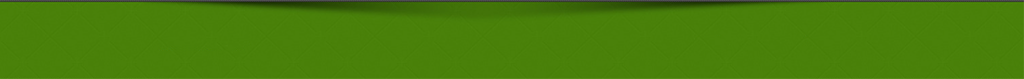
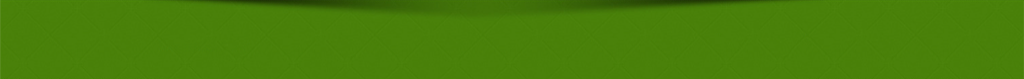
background in progress

Changed region(s): [[0.0, 0.0, 1.0, 0.1013]]

diff --git a/public/assets/css/templates/the42template/style.css b/public/assets/css/templates/the42template/style.css
@@ -10,6 +10,7 @@
 body {
 	margin: 0px;
 	background-color: #282828;
+    background-image: url("../../../img/templates/the42template/background.png");
 }
 
 html {	
@@ -21,7 +22,7 @@ html {
     padding: 0 100px;
 }
 
-#all-wrapper {
+.all-wrapper {
 	width: 1024px;
 	margin: 0 auto;
 }
@@ -53,18 +54,31 @@ html {
 	position: relative;
 }
 
+#header h1 {
+    margin: 0;
+    position: relative;
+    z-index: 3;
+    top: 15px;
+    left: 25px;
+    float: left;
+    width: 150px;
+    height: 80px;
+}
+
+#header .all-wrapper {
+    position: relative;
+    z-index: 1;
+}
+
 #header h1 .logo {
 	display: block;
 	width: 113px;
 	height: 113px;
-	position: absolute;
 	background-image: url('../../../img/templates/the42template/logo.png');
 	background-repeat: no-repeat;
 	text-indent: -99999px;
 	padding: 0;
 	margin: 0;
-	top: 15px;
-	left: 25px;
 }
 
 /* Menu */
@@ -73,7 +87,9 @@ html {
 	margin: 0;
 	padding: 0;
 	list-style: none;
-	margin-left: 170px;
+	margin-right: 80px;
+    position: relative;
+    float:right;
 }
 
 #header ul.menu li {
@@ -86,7 +102,7 @@ html {
 	text-decoration: none;
 	color: #e4e5e2;
 	display: block;
-	padding: 30px 10px;
+	padding: 30px 20px;
 	font-size: 18px;
 	font-style: normal;
 }
@@ -102,12 +118,11 @@ html {
 /* Menu End */
 
 #content {
-	background-image: url('../../../img/templates/the42template/back.png');
+/*background-image: url('../../../img/templates/the42template/back.png'); */
 }
 
 .submenu {
-	background-color: #4B820B;
-    background-image: url("../../../img/templates/the42template/submenu.png");
+    background: url("../../../img/templates/the42template/submenu.png") no-repeat 0 0 #4B820B;
     height: 80px;
     margin-bottom: 30px;
 }
@@ -117,7 +132,7 @@ html {
     display: inline-block;
     font-size: 12pt;
     font-weight: normal;
-    margin: 35px 0 0 165px;
+    margin: 25px 0 0 165px;
     text-transform: uppercase;
 }
 
@@ -293,7 +308,7 @@ a.list {
     background-color: #5baa00;
 }
 
-.single-content .carousel-inner > .item > img, 
+.single-content .carousel-inner > .item > img,
 .single-content .carousel-inner > .item > a > img {
     max-width: 700px;
 }

diff --git a/fuel/app/views/templates/the42template/footer.php b/fuel/app/views/templates/the42template/footer.php
@@ -1,46 +1,45 @@
-<div class="footer wrapper-padding clearfix">
-    <div class="container">
-        <div class="one_half">
-            <div id="infiniti_1" class="infinitebox toright">
-                <div class="ib-draws">
-                    <div class="ib-draw" data-targetwrap="#ib-draw-2">
-                        <div class="ib-icon twitter-icon"></div>
+<div class="all-wrapper">
+    <div class="wrapper-padding clearfix">
+        <div class="container">
+            <div class="one_half">
+                <div id="infiniti_1" class="infinitebox toright">
+                    <div class="ib-draws">
+                        <div class="ib-draw" data-targetwrap="#ib-draw-2">
+                            <div class="ib-icon twitter-icon"></div>
+                        </div>
+                        <div class="ib-draw" data-targetwrap="#ib-draw-1">
+                            <div class="ib-icon facebook-icon"></div>
+                        </div>
+                        <div class="ib-draw" data-targetwrap="#ib-draw-3">
+                            <div class="ib-icon comment-icon"></div>
+                        </div>
+                        <div class="ib-draw" data-targetwrap="#ib-draw-4">
+                            <div class="ib-icon article-icon"></div>
+                        </div>
                     </div>
-                    <div class="ib-draw" data-targetwrap="#ib-draw-1">
-                        <div class="ib-icon facebook-icon"></div>
-                    </div>
-                    <div class="ib-draw" data-targetwrap="#ib-draw-3">
-                        <div class="ib-icon comment-icon"></div>
-                    </div>
-                    <div class="ib-draw" data-targetwrap="#ib-draw-4">
-                        <div class="ib-icon article-icon"></div>
-                    </div>
-                </div>
 
-                <div class="ib-content">
-                    <div id="ib-draw-1" class="ib-content-wrap ">
-                            <h3>Hello world</h3>
+                    <div class="ib-content">
+                        <div id="ib-draw-1" class="ib-content-wrap ">
+                                <h3>Hello world</h3>
+                        </div>
+                        <div id="ib-draw-2" class="ib-content-wrap">
+                                <h3>Hello world</h3>
+                        </div>
+                        <div id="ib-draw-3" class="ib-content-wrap">
+                                <h3>Hello world</h3>
+                        </div>
+                        <div id="ib-draw-4" class="ib-content-wrap">
+                                <h3>Hello world</h3>
+                        </div>
+                        <div class="ib-close"> </div>
                     </div>
-                    <div id="ib-draw-2" class="ib-content-wrap">
-                            <h3>Hello world</h3>
-                    </div>
-                    <div id="ib-draw-3" class="ib-content-wrap">
-                            <h3>Hello world</h3>
-                    </div>
-                    <div id="ib-draw-4" class="ib-content-wrap">
-                            <h3>Hello world</h3>
-                    </div>
-                    <div class="ib-close"> </div>
                 </div>
             </div>
         </div>
-    </div>
-
 
         <div class="one_half">
 
         </div>
-
 
     </div>
 </div>

diff --git a/fuel/app/views/templates/the42template/header.php b/fuel/app/views/templates/the42template/header.php
@@ -1,20 +1,22 @@
-<h1>
-    <?= \Fuel\Core\Html::anchor("/", "42 Develipment Studio", array('class' =>'logo')); ?>
-</h1>
-<ul class="menu clearfix">
-	<li>
-		<?= Controller_Application::$current_page == "Home" ? \Fuel\Core\Html::anchor("/", "Home", array('class' => 'active')) :  \Fuel\Core\Html::anchor("/", "Home"); ?>
-	</li>
-	<li>
-		<?= Controller_Application::$current_page == "About" ? \Fuel\Core\Html::anchor("hui", "About us", array('class' => 'active')) : \Fuel\Core\Html::anchor("hui", "About us"); ?>
-	</li>
-	<li>
-		<?= Controller_Application::$current_page == "content" ? \Fuel\Core\Html::anchor("home/content", "Portfolio", array('class' => 'active')) : \Fuel\Core\Html::anchor("home/content", "Portfolio"); ?>
-	</li>
-	<li>
-		<?= \Fuel\Core\Html::anchor("#", "Blog & News"); ?>
-	</li>
-	<li>
-		<?= \Fuel\Core\Html::anchor("#", "Contact us"); ?>
-	</li>
-</ul>
+<div class="all-wrapper clearfix">
+    <h1>
+        <?= \Fuel\Core\Html::anchor("/", "42 Development Studio", array('class' =>'logo')); ?>
+    </h1>
+    <ul class="menu clearfix">
+        <li>
+            <?= Controller_Application::$current_page == "Home" ? \Fuel\Core\Html::anchor("/", "Home", array('class' => 'active')) :  \Fuel\Core\Html::anchor("/", "Home"); ?>
+        </li>
+        <li>
+            <?= Controller_Application::$current_page == "About" ? \Fuel\Core\Html::anchor("hui", "About us", array('class' => 'active')) : \Fuel\Core\Html::anchor("hui", "About us"); ?>
+        </li>
+        <li>
+            <?= Controller_Application::$current_page == "content" ? \Fuel\Core\Html::anchor("home/content", "Portfolio", array('class' => 'active')) : \Fuel\Core\Html::anchor("home/content", "Portfolio"); ?>
+        </li>
+        <li>
+            <?= \Fuel\Core\Html::anchor("#", "Blog & News"); ?>
+        </li>
+        <li>
+            <?= \Fuel\Core\Html::anchor("#", "Contact us"); ?>
+        </li>
+    </ul>
+</div>

diff --git a/fuel/app/views/templates/the42template/The42Template.php b/fuel/app/views/templates/the42template/The42Template.php
@@ -19,16 +19,17 @@
 		<?= Asset::js('jquery.reveal.js'); ?>
 		<?= Asset::js('jquery.fancybox.pack.js'); ?>
 		<?= Asset::js('jquery.fancybox-buttons.js'); ?>
-        <?=TCTheme::add_js('content-loader.js'); ?>
+        <?=TCTheme::add_js('application.js'); ?>
         <?= Asset::js('bootstrap.min.js'); ?>
 		<?= Asset::render('javascripts'); ?>
 	</head>
 
 	<body>
-		<div id="all-wrapper">
-			<div id="header">
-				<?= TCTheme::render("header",array()); ?>
-			</div>
+        <div id="header">
+            <?= TCTheme::render("header",array()); ?>
+        </div>
+		<div class="all-wrapper">
+
 			
 			<div id="content">
 				<? if(isset($content)): ?>
@@ -36,9 +37,10 @@
 				<? endif; ?>
 			</div>
 			
-			<div id="footer">
-				<?= TCTheme::render("footer"); ?>
-			</div>
+
 		</div>
+        <div id="footer">
+            <?= TCTheme::render("footer"); ?>
+        </div>
 	</body>
 </html>
